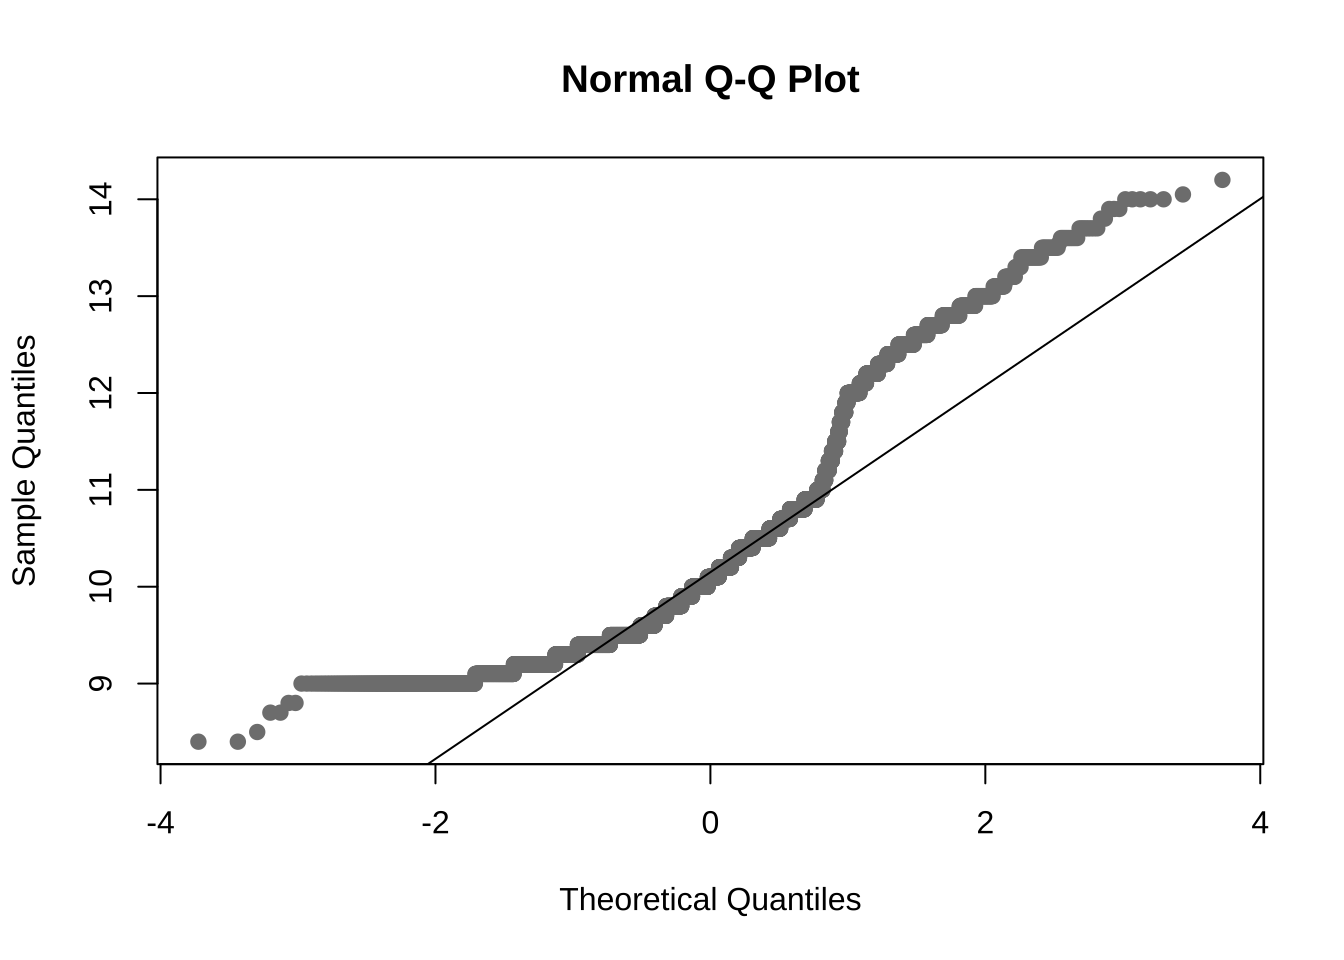
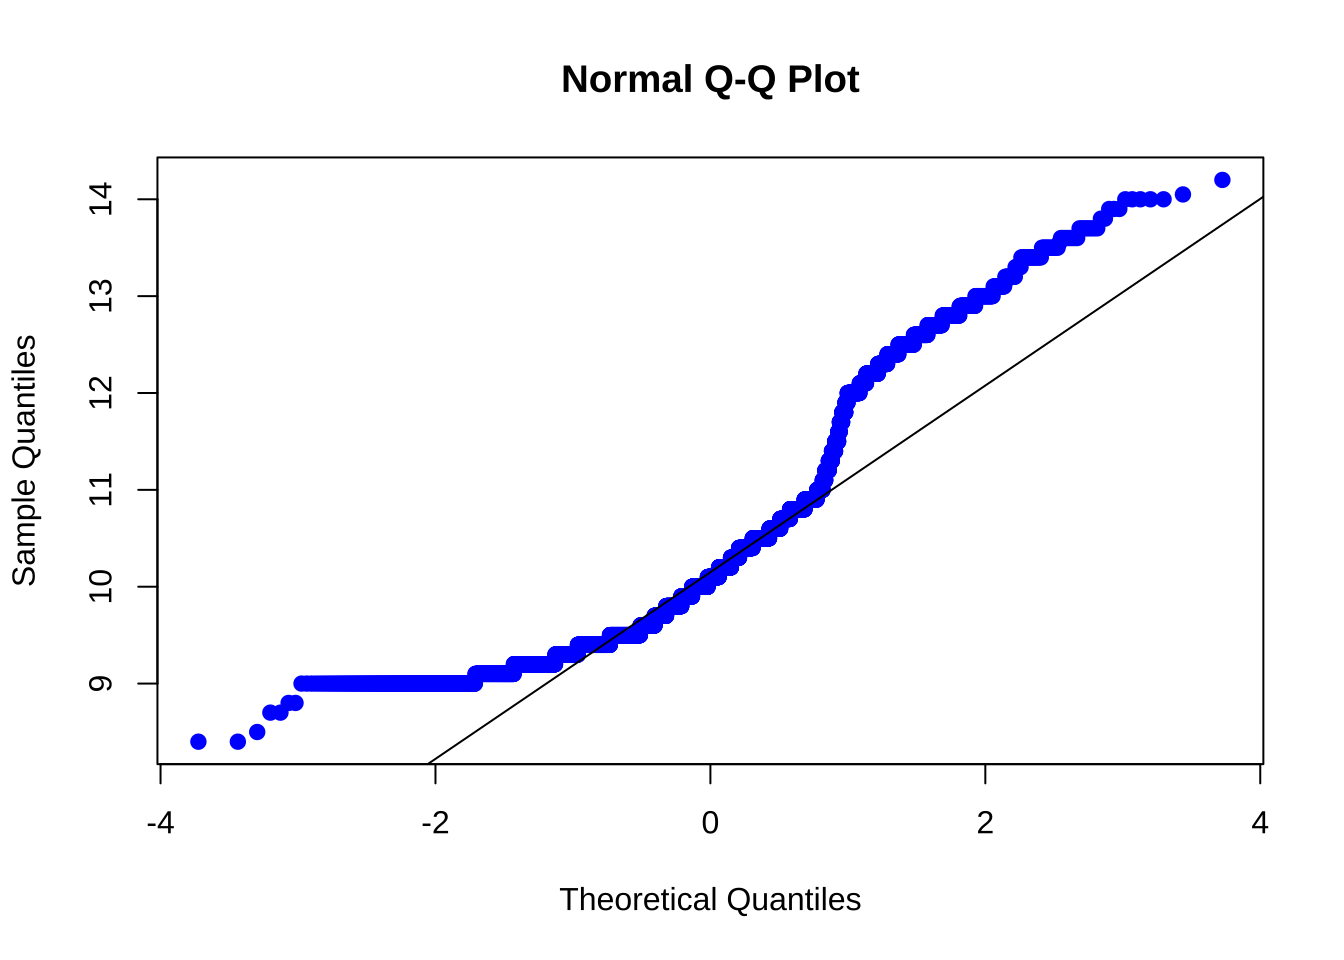
J3

Changed region(s): [[0.125, 0.1875, 0.9062, 0.7812]]

diff --git a/docs/posts/vinos/index.html b/docs/posts/vinos/index.html
@@ -472,11 +472,11 @@ gtag('config', 'G-DSTHFZLFYC', { 'anonymize_ip': true});
 <div class="cell">
 <div class="sourceCode cell-code" id="cb23"><pre class="sourceCode r code-with-copy"><code class="sourceCode r"><span id="cb23-1"><a href="#cb23-1" aria-hidden="true" tabindex="-1"></a><span class="fu">ggplot</span>(vinos, <span class="fu">aes</span>(<span class="at">x=</span>Alcohol, <span class="at">fill=</span>Tipo, <span class="at">color=</span>Tipo)) <span class="sc">+</span></span>
 <span id="cb23-2"><a href="#cb23-2" aria-hidden="true" tabindex="-1"></a>  <span class="fu">ggtitle</span>(<span class="st">"Tipos de vino: Alcohol-Tipo"</span>) <span class="sc">+</span></span>
-<span id="cb23-3"><a href="#cb23-3" aria-hidden="true" tabindex="-1"></a>  <span class="fu">geom_histogram</span>(<span class="at">alpha=</span><span class="dv">2</span>, <span class="at">position=</span><span class="st">"identity"</span>, <span class="at">bins =</span> <span class="dv">30</span>)<span class="sc">+</span></span>
+<span id="cb23-3"><a href="#cb23-3" aria-hidden="true" tabindex="-1"></a>  <span class="fu">geom_histogram</span>(<span class="at">alpha=</span><span class="dv">2</span>, <span class="at">position=</span><span class="st">"identity"</span>, <span class="at">bins =</span> <span class="dv">30</span>, <span class="at">size=</span>.<span class="dv">1</span>)<span class="sc">+</span></span>
 <span id="cb23-4"><a href="#cb23-4" aria-hidden="true" tabindex="-1"></a>  <span class="fu">geom_density</span>(<span class="at">alpha=</span><span class="fl">0.5</span>) <span class="sc">+</span></span>
 <span id="cb23-5"><a href="#cb23-5" aria-hidden="true" tabindex="-1"></a>  <span class="fu">xlab</span>(<span class="st">"Calidad"</span>) <span class="sc">+</span></span>
 <span id="cb23-6"><a href="#cb23-6" aria-hidden="true" tabindex="-1"></a>  <span class="fu">ylab</span>(<span class="st">"Frecuencias"</span>) <span class="sc">+</span></span>
-<span id="cb23-7"><a href="#cb23-7" aria-hidden="true" tabindex="-1"></a>  <span class="fu">scale_color_manual</span>(<span class="at">values=</span><span class="fu">c</span>(<span class="st">"#61b15b"</span>, <span class="st">"#304bae"</span>))<span class="sc">+</span></span>
+<span id="cb23-7"><a href="#cb23-7" aria-hidden="true" tabindex="-1"></a>  <span class="fu">scale_color_manual</span>(<span class="at">values=</span><span class="fu">c</span>(<span class="st">"white"</span>, <span class="st">"white"</span>))<span class="sc">+</span></span>
 <span id="cb23-8"><a href="#cb23-8" aria-hidden="true" tabindex="-1"></a>  <span class="fu">scale_fill_manual</span>(<span class="at">values=</span><span class="fu">c</span>(<span class="st">"#e9e4e4"</span>, <span class="st">"#c85c5c"</span>)) <span class="sc">+</span></span>
 <span id="cb23-9"><a href="#cb23-9" aria-hidden="true" tabindex="-1"></a>    <span class="fu">theme</span>(</span>
 <span id="cb23-10"><a href="#cb23-10" aria-hidden="true" tabindex="-1"></a>    <span class="at">text =</span> <span class="fu">element_text</span>(<span class="at">family =</span> <span class="st">"fira"</span>),</span>
@@ -494,7 +494,7 @@ gtag('config', 'G-DSTHFZLFYC', { 'anonymize_ip': true});
 <div class="cell">
 <div class="sourceCode cell-code" id="cb24"><pre class="sourceCode r code-with-copy"><code class="sourceCode r"><span id="cb24-1"><a href="#cb24-1" aria-hidden="true" tabindex="-1"></a><span class="fu">ggplot</span>(vinos, <span class="fu">aes</span>(<span class="at">x=</span>Alcohol, <span class="at">fill=</span>Tonalidad, <span class="at">color=</span>Tonalidad)) <span class="sc">+</span></span>
 <span id="cb24-2"><a href="#cb24-2" aria-hidden="true" tabindex="-1"></a>  <span class="fu">ggtitle</span>(<span class="st">"Tipos de vino: Alcohol-Tonalidad"</span>) <span class="sc">+</span></span>
-<span id="cb24-3"><a href="#cb24-3" aria-hidden="true" tabindex="-1"></a>  <span class="fu">geom_histogram</span>(<span class="at">alpha=</span><span class="dv">1</span>, <span class="at">position=</span><span class="st">"identity"</span>, <span class="at">bins =</span> <span class="dv">10</span>)<span class="sc">+</span></span>
+<span id="cb24-3"><a href="#cb24-3" aria-hidden="true" tabindex="-1"></a>  <span class="fu">geom_histogram</span>(<span class="at">alpha=</span><span class="dv">1</span>, <span class="at">position=</span><span class="st">"identity"</span>, <span class="at">bins =</span> <span class="dv">10</span>, <span class="at">size=</span>.<span class="dv">1</span>, <span class="at">color=</span><span class="st">"white"</span>)<span class="sc">+</span></span>
 <span id="cb24-4"><a href="#cb24-4" aria-hidden="true" tabindex="-1"></a>  <span class="fu">geom_density</span>(<span class="at">alpha=</span><span class="dv">1</span>) <span class="sc">+</span></span>
 <span id="cb24-5"><a href="#cb24-5" aria-hidden="true" tabindex="-1"></a>  <span class="fu">xlab</span>(<span class="st">"Nivel de alcohol"</span>) <span class="sc">+</span></span>
 <span id="cb24-6"><a href="#cb24-6" aria-hidden="true" tabindex="-1"></a>  <span class="fu">ylab</span>(<span class="st">"Frecuencias"</span>) <span class="sc">+</span></span>
@@ -515,7 +515,7 @@ gtag('config', 'G-DSTHFZLFYC', { 'anonymize_ip': true});
 </div>
 <p>Prueba de normalidad:</p>
 <div class="cell">
-<div class="sourceCode cell-code" id="cb25"><pre class="sourceCode r code-with-copy"><code class="sourceCode r"><span id="cb25-1"><a href="#cb25-1" aria-hidden="true" tabindex="-1"></a><span class="fu">qqnorm</span>(vinos<span class="sc">$</span>Alcohol, <span class="at">pch =</span> <span class="dv">19</span>, <span class="at">col =</span> <span class="st">"gray50"</span>)</span>
+<div class="sourceCode cell-code" id="cb25"><pre class="sourceCode r code-with-copy"><code class="sourceCode r"><span id="cb25-1"><a href="#cb25-1" aria-hidden="true" tabindex="-1"></a><span class="fu">qqnorm</span>(vinos<span class="sc">$</span>Alcohol, <span class="at">pch =</span> <span class="dv">19</span>, <span class="at">col =</span> <span class="st">"blue"</span>)</span>
 <span id="cb25-2"><a href="#cb25-2" aria-hidden="true" tabindex="-1"></a><span class="fu">qqline</span>(vinos<span class="sc">$</span>Alcohol)</span></code><button title="Copy to Clipboard" class="code-copy-button"><i class="bi"></i></button></pre></div>
 <div class="cell-output-display">
 <p><img src="index_files/figure-html/unnamed-chunk-18-1.png" class="img-fluid" width="672"></p>
@@ -561,7 +561,9 @@ gtag('config', 'G-DSTHFZLFYC', { 'anonymize_ip': true});
 </div>
 </div>
 <div class="cell">
-<div class="sourceCode cell-code" id="cb29"><pre class="sourceCode r code-with-copy"><code class="sourceCode r"><span id="cb29-1"><a href="#cb29-1" aria-hidden="true" tabindex="-1"></a><span class="fu">pairs</span>(vinos<span class="sc">$</span>Alcohol <span class="sc">~</span> vinos<span class="sc">$</span>Precio)</span></code><button title="Copy to Clipboard" class="code-copy-button"><i class="bi"></i></button></pre></div>
+<div class="sourceCode cell-code" id="cb29"><pre class="sourceCode r code-with-copy"><code class="sourceCode r"><span id="cb29-1"><a href="#cb29-1" aria-hidden="true" tabindex="-1"></a><span class="fu">pairs</span>(vinos<span class="sc">$</span>Alcohol <span class="sc">~</span> vinos<span class="sc">$</span>Precio, </span>
+<span id="cb29-2"><a href="#cb29-2" aria-hidden="true" tabindex="-1"></a>      <span class="at">pch =</span> <span class="dv">19</span>, </span>
+<span id="cb29-3"><a href="#cb29-3" aria-hidden="true" tabindex="-1"></a>      <span class="at">col =</span> <span class="dv">4</span>)</span></code><button title="Copy to Clipboard" class="code-copy-button"><i class="bi"></i></button></pre></div>
 <div class="cell-output-display">
 <p><img src="index_files/figure-html/unnamed-chunk-21-1.png" class="img-fluid" width="672"></p>
 </div>

diff --git a/docs/programandoenr.html b/docs/programandoenr.html
@@ -177,7 +177,7 @@ gtag('config', 'G-DSTHFZLFYC', { 'anonymize_ip': true});
 
 <div class="quarto-listing quarto-listing-container-default" id="listing-listing">
 <div class="list quarto-listing-default">
-<div class="quarto-post image-right" data-index="0" data-categories="code,analysis" data-listing-date-sort="1717365600000" data-listing-file-modified-sort="1717399024681" data-listing-reading-time-sort="10.41">
+<div class="quarto-post image-right" data-index="0" data-categories="code,analysis" data-listing-date-sort="1717365600000" data-listing-file-modified-sort="1717399480155" data-listing-reading-time-sort="10.515">
 <div class="thumbnail">
 <p><a href="./posts/vinos/index.html"> <img src="./posts/vinos/vinos.jpg" class="thumnail-image"> </a></p>
 </div>
